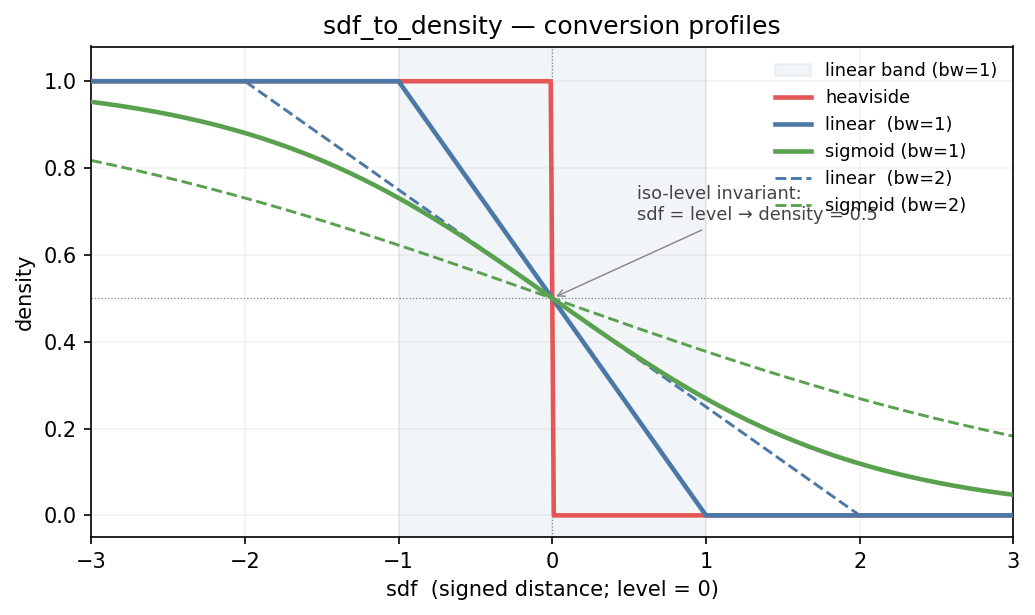
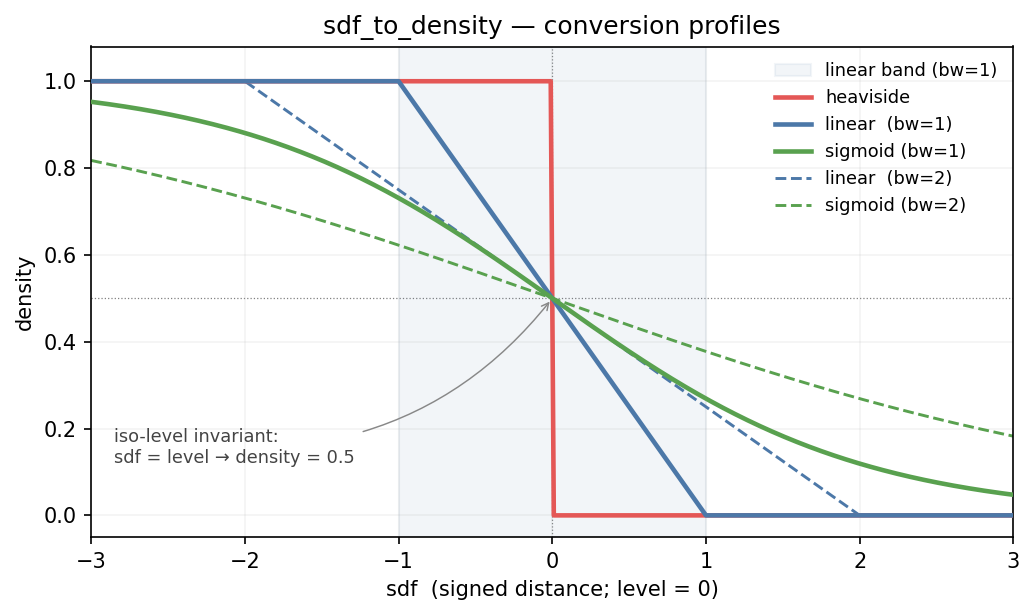
fix(docs): move profiles-figure annotation to empty lower-left region
The 'iso-level invariant' annotation was overlapping with the 6-item
legend in the upper-right. Moved to the lower-left quadrant (where all
methods have density near 1.0, so the region below y=0.3 is empty) with
a curved leader arrow pointing back to the (0, 0.5) invariant point.

Changed region(s): [[0.0928, 0.6797, 0.3401, 0.7724], [0.6184, 0.3089, 0.8348, 0.4016], [0.5256, 0.4634, 0.5565, 0.4943]]

diff --git a/scripts/generate_converter_comparison.py b/scripts/generate_converter_comparison.py
@@ -67,9 +67,10 @@ def gen_profiles() -> None:
             ls="--", label="sigmoid (bw=2)", zorder=2)
 
     ax.annotate("iso-level invariant:\nsdf = level → density = 0.5",
-                xy=(0.0, 0.5), xytext=(0.55, 0.68),
-                fontsize=8.5, color="#444",
-                arrowprops={"arrowstyle": "->", "color": "#888", "lw": 0.7})
+                xy=(0.0, 0.5), xytext=(-2.85, 0.12),
+                fontsize=8.5, color="#444", ha="left",
+                arrowprops={"arrowstyle": "->", "color": "#888", "lw": 0.7,
+                            "connectionstyle": "arc3,rad=0.25"})
 
     ax.set_xlabel("sdf  (signed distance; level = 0)")
     ax.set_ylabel("density")
